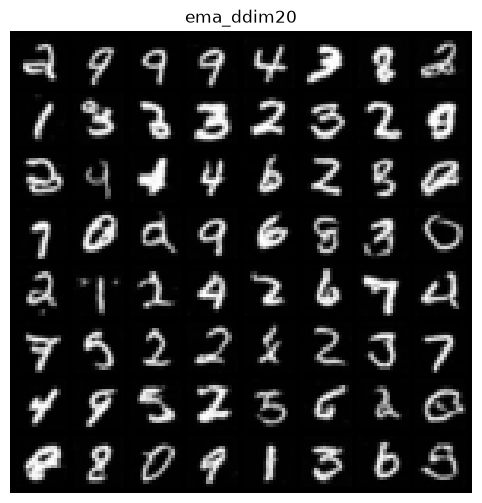
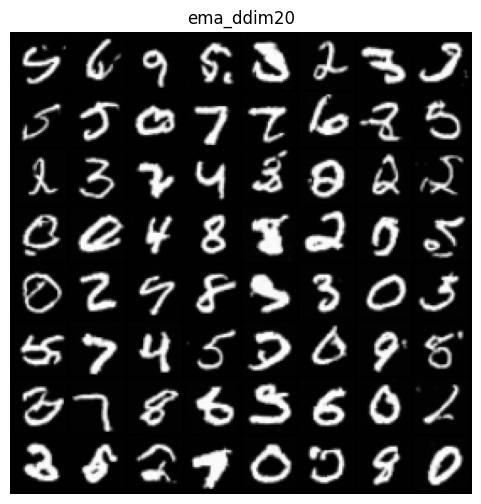
Update to 32x32 results and README

diff --git a/app.py b/app.py
@@ -30,7 +30,7 @@ demo = gr.Interface(
         gr.Slider(0, 9, value=7, step=1, label="Digit"),
         gr.Slider(1, 16, value=8, step=1, label="How many samples"),
         gr.Slider(1.0, 2.0, value=1.0, step=0.1, label="Guidance w"),
-        gr.Slider(5, 100, value=50, step=5, label="DDIM steps"),
+        gr.Slider(5, 100, value=20, step=5, label="DDIM steps"),
         gr.Number(value=0, label="Seed"),
     ],
     outputs=gr.Image(type="pil", label="Generated digits"),

diff --git a/README.md b/README.md
@@ -9,7 +9,7 @@
   <img src="results/samples_ema.png" width="320" alt="Generated digits">
 </p>
 
-I built this to understand the core idea behind Stable Diffusion and Midjourney, scaled down to run on a laptop CPU. Everything (noise schedule, U-Net, training loop, samplers) is written by hand.
+I built this to understand the core idea behind Stable Diffusion and Midjourney, scaled down to MNIST. Everything (noise schedule, U-Net, training loop, samplers) is written by hand.
 
 **Features**
 
@@ -19,6 +19,9 @@ I built this to understand the core idea behind Stable Diffusion and Midjourney,
 - EMA of weights
 - Class-conditional generation with classifier-free guidance
 - Classifier-based evaluation of generated digits
+- Denoising GIF and a Gradio live demo
+
+**Final results use 32x32 images, trained on a free Colab T4 GPU.** Earlier 16x16 runs on a laptop CPU are kept as a side note at the end of the Results section.
 
 ---
 
@@ -69,6 +72,10 @@ python check_setup.py
 
 Tested with Python 3.13 and PyTorch 2.15 (CPU build).
 
+**Image size.** `config.py` holds `IMG_SIZE` and `BASE_CH`. The final results use `IMG_SIZE = 32` and `BASE_CH = 64`. For a quick run on a laptop CPU, use `IMG_SIZE = 16` and `BASE_CH = 32`.
+
+**Weights are not in this repo** (`*.pt` is git-ignored). To get a working model, train it yourself with the commands below. The 32x32 models took about 30 minutes each on a Colab T4.
+
 ---
 
 ## Usage
@@ -85,17 +92,21 @@ Tested with Python 3.13 and PyTorch 2.15 (CPU build).
 | `python sample.py --ddim 50` | Unconditional DDIM sampling (50 steps) |
 | `python sample_cond.py --w 1.0` | Conditional sampling, one digit per row |
 | `python evaluate.py` | Classifier-based evaluation |
+| `python sweep_w.py` | Label accuracy for several guidance strengths |
+| `python make_gif.py` | Denoising GIF (two rows of digits 0 to 9) |
+| `python app.py` | Gradio live demo |
 
 All settings (image size, `T`, learning rate, epochs, EMA decay) live in `config.py`.
-All results below were produced on a **laptop CPU with 16x16 images**.
 
 ---
 
 ## Results
 
+All numbers below are for **32x32 images, `BASE_CH = 64`, 30 epochs, trained on a Colab T4**, unless stated otherwise.
+
 ### 1. Data and forward process
 
-Images are resized to 16x16 and normalized to `[-1, 1]` so they live on the same scale as the unit-variance noise. With `T = 400` and a linear schedule from `1e-4` to `0.02`, `alpha_bar` goes from `0.9999` to `0.0175`, so the last step is almost pure static.
+Images are normalized to `[-1, 1]` so they live on the same scale as the unit-variance noise. With `T = 400` and a linear schedule from `1e-4` to `0.02`, `alpha_bar` goes from `0.9999` to `0.0175`, so the last step is almost pure static.
 
 <p align="center">
   <img src="results/step2_forward.png" alt="Forward process">
@@ -111,23 +122,23 @@ Four samples at `t = 399, 300, 200, 100, 50, 0`.
 
 ### 3. Training
 
-30 epochs, about 2 min 15 s per epoch on CPU. The loss drops fast, then plateaus.
+About 59 to 61 s per epoch on the T4.
 
 | Model | Final loss |
 |---|---|
-| Unconditional | 0.0476 |
-| Conditional | 0.0457 |
+| Unconditional | 0.0243 |
+| Conditional | 0.0239 (epoch 0: 0.0779) |
 
-<table align="center">
-  <tr>
-    <td align="center"><b>Unconditional</b><br><img src="results/loss_curve.png" width="320"></td>
-    <td align="center"><b>Conditional</b><br><img src="results/cond_loss_curve.png" width="320"></td>
-  </tr>
-</table>
+<p align="center">
+  <b>Conditional model loss</b><br>
+  <img src="results/cond_loss_curve.png" width="360" alt="Conditional loss curve">
+</p>
+
+The unconditional loss curve file was lost when the Colab runtime reset, so only its final loss is reported.
 
 ### 4. EMA vs no EMA
 
-Same starting noise, EMA decay `0.995`. On MNIST the difference is small: EMA samples look slightly smoother, but both are close.
+Same starting noise, EMA decay `0.995`. On MNIST the difference is small.
 
 <p align="center">
   <img src="results/ema_comparison.png" width="640" alt="EMA comparison">
@@ -135,16 +146,18 @@ Same starting noise, EMA decay `0.995`. On MNIST the difference is small: EMA sa
 
 ### 5. DDPM vs DDIM
 
-64 images on CPU, same starting noise.
+64 images on a Colab T4, same starting noise.
 
 | Sampler | Steps | Time | Speedup |
 |---|---|---|---|
-| DDPM | 400 | 9.2 s | 1x |
-| DDIM | 50 | 1.2 s | ~8x |
-| DDIM | 20 | 0.5 s | ~18x |
-| DDIM | 10 | 0.3 s | ~30x |
+| DDPM | 400 | 5.6 s | 1x |
+| DDIM | 50 | 1.1 s | ~5x |
+| DDIM | 20 | 0.7 s | ~8x |
+| DDIM | 10 | 0.5 s | ~11x |
 
-DDIM is deterministic, so with the same starting noise the 10, 20 and 50 step grids look very similar to each other. DDPM adds fresh noise at every step, so its grid differs.
+The first DDPM run took 6.8 s because it includes GPU warm-up, so 5.6 s (second run) is used as the baseline. The speedup on GPU is smaller than on CPU; I did not measure why.
+
+DDIM is deterministic, while DDPM adds fresh noise at every step, so its grid differs.
 
 <p align="center">
   <img src="results/ddim_comparison.png" alt="DDIM comparison">
@@ -181,39 +194,58 @@ Each row is one digit (0 to 9). Samples use DDIM with 50 steps.
 
 ### 7. Evaluation
 
-A small CNN classifier (**98.1%** test accuracy on real MNIST) scores the generated digits.
+A small CNN classifier (**98.52%** test accuracy on real 32x32 MNIST) scores the generated digits.
 
 **Unconditional model** (1000 samples, DDIM 50 steps)
 
 | Metric | Result |
 |---|---|
-| Samples with classifier confidence > 0.9 | 78% |
-| Predicted class counts (digits 0 to 9) | 136, 46, 124, 135, 85, 124, 82, 77, 123, 68 |
+| Samples with classifier confidence > 0.9 | 74.4% |
+| Predicted class counts (digits 0 to 9) | 154, 32, 153, 128, 67, 94, 81, 92, 94, 105 |
 
-**Conditional model** (1000 samples, 100 per label, DDIM 50 steps, same starting noise for every `w`)
+**Conditional model** (100 samples per label, DDIM 50 steps, same starting noise for every `w`)
 
 | Guidance `w` | Label accuracy |
 |---|---|
-| 0.0 | 9.3% |
-| 0.5 | 44.0% |
-| 0.8 | 77.9% |
-| 1.0 | 89.5% |
-| 1.1 | 92.5% |
-| **1.2** | **93.7%** |
-| 1.3 | 91.2% |
-| 1.5 | 80.5% |
-| 2.0 | 50.7% |
+| 0.0 | 8.6% |
+| 0.5 | 42.5% |
+| 0.8 | 74.1% |
+| 1.0 | 86.8% |
+| **1.1** | **90.4%** |
+| 1.2 | 89.8% |
+| 1.3 | 85.7% |
+| 1.5 | 68.2% |
+| 2.0 | 29.9% |
 
 <p align="center">
   <img src="results/w_sweep.png" width="420" alt="Label accuracy vs guidance strength">
 </p>
 
+`evaluate.py` gave similar numbers in a separate run: `w = 0`: 9.7%, `w = 1.0`: 86.3%, `w = 1.5`: 67.6%, `w = 2.0`: 30.0%, `w = 3.0`: 2.3%.
+
 **Findings**
 
-- **Class balance.** The 10 classes are roughly balanced but not perfectly: digit 1 appears only 46 times out of 1000. I did not check whether this comes from the generator or from classifier bias.
-- **`w = 0` ignores the label**, so accuracy is chance level (about 10%), as expected.
-- **Guidance helps a little, but only in a narrow range.** Accuracy peaks at `w = 1.2` (93.7% vs 89.5% at `w = 1.0`) and then falls fast; the digits visibly break down for `w >= 2`. This is a single seed on 1000 samples, so the gain of about 4 points is modest and I did not measure its variance.
-- **A wrong first conclusion.** My first sweep only tried `w = 1, 3, 5`, and I wrongly concluded that guidance does not help. A finer sweep around `1.0` to `1.5` showed the real peak.
+- **`w = 0` ignores the label**, so accuracy is at chance level (about 10%), as expected.
+- **Guidance helps a little, and only in a narrow range.** Accuracy peaks around `w = 1.1` to `1.2` (about 90%) versus 86.8% at `w = 1.0`, a gain of roughly 3 to 4 points. Run-to-run noise is about 0.5 points, so the difference between 1.1 and 1.2 is within noise. Above `w = 1.5` accuracy falls fast.
+- **Digit 1 is under-represented** in unconditional samples (32 out of 1000). I did not check whether this comes from the generator or from classifier bias.
+- **At `w = 3.0` accuracy is 2.3%, below the 10% chance level.** I did not investigate the cause.
+- **A wrong first conclusion.** My first sweep only tried `w = 1, 3, 5`, and I wrongly concluded that guidance does not help. A finer sweep showed the real peak.
+- **Guidance numbers are for DDIM 50 steps.** I made no accuracy measurement for other step counts.
+
+### 8. Live demo speed (laptop CPU, 32x32)
+
+Measured with a stopwatch in the Gradio demo, 4 images, so these are approximate and include Gradio overhead: DDIM 20 steps about 4.9 s, DDIM 50 steps about 12 s.
+
+### Side note: earlier 16x16 runs on laptop CPU
+
+Before moving to Colab I trained 16x16 models (`BASE_CH = 32`) on a laptop CPU.
+
+- About 2 min 15 s per epoch. Final loss: unconditional 0.0476, conditional 0.0457.
+- Sampling 64 images on CPU: DDPM 400 steps 9.2 s, DDIM 50 steps 1.2 s, DDIM 20 steps 0.5 s, DDIM 10 steps 0.3 s.
+- Classifier test accuracy 98.1%. Guidance sweep peaked at 93.7% at `w = 1.2` (89.5% at `w = 1.0`).
+- The classifiers differ between 16x16 and 32x32, so I do not claim that one resolution is better than the other from these numbers.
+
+---
 
 ## What went wrong
 
@@ -224,8 +256,12 @@ A small CNN classifier (**98.1%** test accuracy on real MNIST) scores the genera
 | Nested project folder | The venv ended up one level above the project files | Moved the files up one level |
 | Wrong training command | Ran `python train.py` without `--cond` by mistake | Stopped with Ctrl+C and checked `loss_history.json` (30 entries) to confirm old checkpoints were intact |
 | Empty folder missing from the repo | `.gitignore` ignored `checkpoints/`, so its `.gitkeep` was never committed and training would fail on a fresh clone | Ignore only `*.pt` |
-| Wrong conclusion about guidance | My first sweep used `w = 1, 3, 5` only and I concluded guidance hurts | A fine sweep (`w = 0 to 2`) showed a peak at `w = 1.2`; always sweep a range, not three points |
+| Wrong conclusion about guidance | My first sweep used `w = 1, 3, 5` only and I concluded guidance hurts | A fine sweep showed a peak near `w = 1.1` to `1.2`; always sweep a range, not three points |
 | Evaluation numbers changed between runs | The first `evaluate.py` run trained the classifier and used up random numbers, so the second run (which loaded it) sampled differently | The tables use the latest run |
+| Git rebase left in progress | Used the VS Code Sync button and a rebase was left half done | Back up the folder first and avoid Sync when unsure; use the terminal |
+| Colab runtime reset | The reset wiped `/content` (cloned repo and results). Weights survived only because `checkpoints/` was symlinked to Google Drive | Keep weights on Drive and back up `results/` after each step |
+| Stale files mixed into results | Copying `results/` to Drive mixed old 16x16 files from `git clone` with new 32x32 files | Delete stale files first, then check sizes and timestamps (the old GIF was exactly 3,409,664 bytes) |
+| Colab GPU quota | Free GPU access can run out ("usage limits") | Finish GPU work early and keep backups of weights and figures |
 
 ---
 
@@ -241,6 +277,9 @@ diffusion-mnist/
 ├── sample.py           # unconditional sampling (DDPM / DDIM)
 ├── sample_cond.py      # conditional sampling with guidance
 ├── evaluate.py         # classifier-based evaluation
+├── sweep_w.py          # guidance sweep
+├── make_gif.py         # denoising GIF
+├── app.py              # Gradio demo
 ├── compare.py          # EMA vs no-EMA figure
 ├── compare_ddim.py     # DDPM vs DDIM figure
 ├── check_setup.py      # environment check
@@ -258,4 +297,3 @@ diffusion-mnist/
 - Song, Meng, Ermon (2021), *Denoising Diffusion Implicit Models*
 - Ho and Salimans (2022), Classifier-Free Diffusion Guidance
 - Nichol and Dhariwal (2021), Improved Denoising Diffusion Probabilistic Models
-
